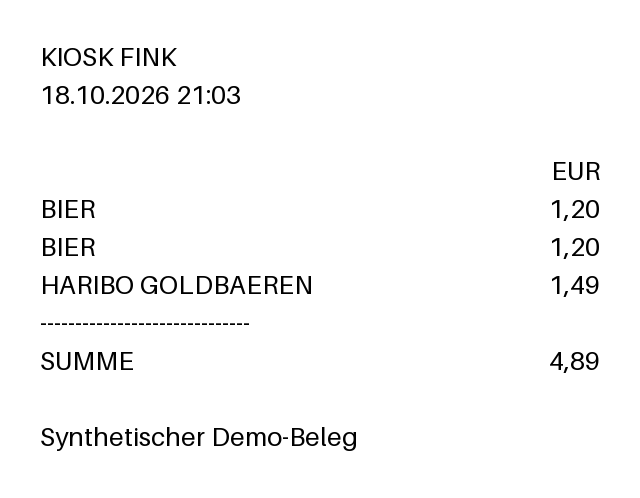
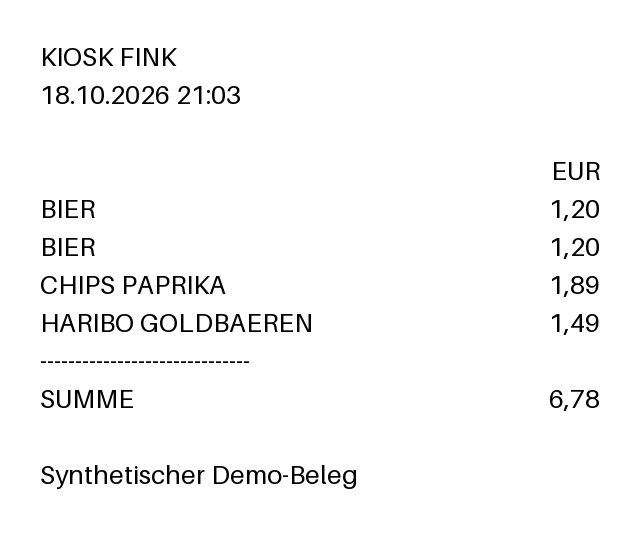
F12: review fixes: CI trigger and token wording, Linux Ollama binding without 0.0.0.0, docker run add-host, compose -d/.env/BUDGIE_PORT/volume name, dataset wording, demo-03 reuses a category, slides link, stale 0004/0011/uncertainty lines (with its wiki updates)

diff --git a/scripts/make_demo_receipts.py b/scripts/make_demo_receipts.py
@@ -64,7 +64,7 @@ RECEIPTS: tuple[DemoReceipt, ...] = (
             ("KAESEKUCHEN", Decimal("3.90")),
         ),
         printed_total=Decimal("9.50"),
-        purpose="eating out; kaesekuchen is uncategorised, and the choice is reused next time",
+        purpose="eating out, with one uncategorised item (kaesekuchen)",
     ),
     DemoReceipt(
         file="demo-03-kiosk-total-mismatch.png",
@@ -73,10 +73,12 @@ RECEIPTS: tuple[DemoReceipt, ...] = (
         items=(
             ("BIER", Decimal("1.20")),
             ("BIER", Decimal("1.20")),
+            ("CHIPS PAPRIKA", Decimal("1.89")),
             ("HARIBO GOLDBAEREN", Decimal("1.49")),
         ),
-        printed_total=Decimal("4.89"),
-        purpose="the printed total is 1.00 more than the items, so the review shows a sum flag",
+        printed_total=Decimal("6.78"),
+        purpose="chips paprika again, so the category chosen on demo-01 is reused; the printed"
+        " total is 1.00 more than the items, so the review shows a sum flag",
     ),
 )
 

diff --git a/README.md b/README.md
@@ -28,10 +28,10 @@ The responsibility split is:
 
 **Reproducible demo data:**
 - `data/demo/receipts/` holds three synthetic receipt photos for scenario 1, with fictional shops and no personal data. `make demo-receipts` re-renders them.
-  - `demo-01-supermarket.png`: seed categories, a Pfand line and one unknown item
-  - `demo-02-cafe.png`: an unknown item; pick its category once and it is reused
-  - `demo-03-kiosk-total-mismatch.png`: the printed total doesn't match the items, so a flag appears
-- `make seed-demo` (or `python -m app.demo_seed` in the container) loads several months of confirmed expenses, budgets and a goal into an **empty** database. Scenarios 2 and 3 run on this data ([0022](docs/wiki/decisions/0022-demo-data-by-explicit-command.md)).
+  - `demo-01-supermarket.png`: seed categories, a Pfand line and one unknown item (CHIPS PAPRIKA)
+  - `demo-02-cafe.png`: eating out, with one unknown item
+  - `demo-03-kiosk-total-mismatch.png`: CHIPS PAPRIKA again, so the category picked on demo-01 is reused; the printed total doesn't match the items, so a sum flag appears
+- `make seed-demo` (or `python -m app.demo_seed` in the container) loads several months of confirmed expenses, budgets and a goal into an **empty** database. Scenarios 2 and 3 run on this data ([0022](docs/wiki/decisions/0022-demo-data-by-explicit-command.md)). Seed first, then upload the demo receipts.
 
 ## Architecture and data flow
 ```
@@ -120,7 +120,7 @@ Statuses are shown as words with an icon, never only as a colour, and never as a
 - **Licence:** Ollama's page shows Apache-2.0 for `qwen2.5vl:3b`, but it shows that same licence file for the 7B and 72B too. Upstream, the 3B is under the **Qwen Research License**: non-commercial use only, "research or evaluation purposes". Converting the weights doesn't relicense them, so Budgie treats the 3B as research-only. That fits this study project. For commercial use, switch to `gemma3:4b` (Gemma Terms of Use). Sources, checked 2026-10-20, not legal advice: [Ollama library](https://ollama.com/library/qwen2.5vl:3b), [Qwen2.5-VL-3B LICENSE](https://huggingface.co/Qwen/Qwen2.5-VL-3B-Instruct/blob/main/LICENSE), [7B card (Apache-2.0)](https://huggingface.co/Qwen/Qwen2.5-VL-7B-Instruct), [72B card (Qwen licence)](https://huggingface.co/Qwen/Qwen2.5-VL-72B-Instruct).
 
 **Hardware:**
-- No GPU is required. Plan for at least **8 GB RAM** (16 GB is comfortable): the model takes about 3.2 GB on disk and more in memory with the 8 K context. Check the real figure with `ollama ps`.
+- No GPU is required. Plan for at least **8 GB RAM** (16 GB is comfortable): the model takes about 3.2 GB on disk and about [__] GB in memory with the 8 K context (`ollama ps` on the student's host, [date]).
 - The measured latency (p50 about 51 s, p95 about 131 s per receipt) comes from an Apple Silicon Mac, where Ollama uses the GPU through Metal. A CPU-only laptop is slower, and so is Ollama inside Docker on a Mac, which has no GPU access.
 
 **Install, start and verify the inference server (host install, recommended on a Mac):**
@@ -129,7 +129,9 @@ Statuses are shown as words with an icon, never only as a colour, and never as a
 ollama --version                                   # expect 0.35.1 or later
 
 # 2. Start it with the context qwen needs
-#    (on Linux add OLLAMA_HOST=0.0.0.0 so the Docker container can reach it)
+#    Linux + Docker: Ollama listens on 127.0.0.1, which a container can't reach. Bind it to the
+#    docker bridge only, e.g. OLLAMA_HOST=172.17.0.1 (never 0.0.0.0: Ollama has no login),
+#    and then use that address instead of localhost below; or use the compose ollama profile.
 OLLAMA_CONTEXT_LENGTH=8192 ollama serve
 #    macOS app instead: launchctl setenv OLLAMA_CONTEXT_LENGTH 8192, then restart the app
 
@@ -174,17 +176,21 @@ All settings are environment variables (pydantic-settings). Nothing is hard-code
 
 **With Docker Compose (recommended):**
 ```bash
-docker compose up --build                        # app on http://localhost:8000 (bound to 127.0.0.1), uses the host's Ollama
-docker compose exec app python -m app.demo_seed  # optional: demo history for scenarios 2–3 (empty DB only)
+docker compose up -d --build                     # app on http://localhost:8000 (bound to 127.0.0.1), uses the host's Ollama
+docker compose exec app python -m app.demo_seed  # optional: demo history for scenarios 2–3 (empty DB only, so before any upload)
+docker compose logs -f app                       # follow the logs; `docker compose down` stops it (data stays on the volume)
 ```
-Ollama in a container instead of on the host (no GPU on a Mac, so slower):
+Ollama in a container instead of on the host (no GPU on a Mac, so slower). Put `LLM_BASE_URL=http://ollama:11434/v1` in a local `.env` (git-ignored, read by compose), or every later `up` falls back to the host's Ollama:
 ```bash
-LLM_BASE_URL=http://ollama:11434/v1 docker compose --profile ollama up --build
+echo "LLM_BASE_URL=http://ollama:11434/v1" >> .env   # remove it again before `make run`, which reads .env too
+docker compose --profile ollama up -d --build
 docker compose exec ollama ollama pull qwen2.5vl:3b
 ```
+Compose names the data volume `budgie_budgie-data` (project `budgie`). The plain `docker run` below uses `budgie-data`, a different volume, so data doesn't carry over between the two. `BUDGIE_PORT` changes the host port (default 8000).
+
 The app also starts without any model server. `/api/health` then reports `llm: down`, uploads fail with `llm_unavailable` and offer Retry or manual entry, and everything else (manual expenses, budgets, dashboard, export) keeps working.
 
-**With Docker only:** `docker build -t budgie . && docker run -p 127.0.0.1:8000:8000 -v budgie-data:/data -e LLM_BASE_URL=http://host.docker.internal:11434/v1 budgie`
+**With Docker only:** `docker build -t budgie . && docker run -p 127.0.0.1:8000:8000 --add-host=host.docker.internal:host-gateway -v budgie-data:/data -e LLM_BASE_URL=http://host.docker.internal:11434/v1 budgie`
 
 **Local development:**
 ```bash
@@ -195,7 +201,7 @@ make check            # ruff, pytest, import-linter, OpenAPI drift (gitleaks if 
 make docker-check     # on the host: build, run, check health, non-root user and /data mode 700
 ```
 - **Tests:** about 3,700 pytest tests. They cover table-driven domain rules (validation, review status, normalisation, categorisation, duplicates, budgets, each leak rule), recorded model responses (valid, malformed and repaired, cut off, missing fields, not a receipt, injected text), and API tests with a fake model client for every failure case. A live-model test is marked `integration` and excluded by default.
-- **CI** runs `lint`, `test`, `openapi`, `imports`, `docker` and `gitleaks` on every push, and `main` is protected ([0010](docs/wiki/decisions/0010-ci-gates-before-merge.md)).
+- **CI** runs `lint`, `test`, `openapi`, `imports`, `docker` and `gitleaks` on every pull request and every push to `main`, and `main` is protected ([0010](docs/wiki/decisions/0010-ci-gates-before-merge.md)).
 
 **Failure handling** ([details](docs/wiki/backend/ai-extraction.md#failure-handling-criterion-10)):
 
@@ -208,7 +214,7 @@ make docker-check     # on the host: build, run, check health, non-root user and
 | Database can't be read or written | `500 storage_error`, logged; `db: error` in health |
 
 ## Evaluation
-- **Dataset:** 30 hand-labelled cases: 23 German receipts, 5 receipts with injected instructions (unsafe), 2 photos that aren't receipts (out of scope), and 3 receipts without a printed merchant or date (ambiguous).
+- **Dataset:** 30 hand-labelled cases: 23 German receipts (3 of them without a printed merchant or date, so ambiguous), 5 receipts with injected instructions (unsafe), and 2 photos that aren't receipts (out of scope).
 - **Configurations:** 4, compared at temperature 0 and scored after the app's own post-processing: `gemma3:4b` with prompts v1, v2, v3, and `qwen2.5vl:3b` with v3.
 - **Report:** method, metrics, comparisons, error categories and the failure discussion are in **[docs/evaluation.md](docs/evaluation.md)**. Runner: `eval/`, `make eval`.
 
@@ -217,10 +223,10 @@ make docker-check     # on the host: build, run, check health, non-root user and
 | `gemma3:4b` v3 | 79 % | 43 % | 71 % | 0.47 | 97 % | 2/2 | 0/5 | 40 s |
 | `qwen2.5vl:3b` v3 | 89 % | 82 % | 93 % | 0.89 | 100 % | 2/2 | 2/5 | 51 s |
 
-The eval photos and labels are real receipts and stay **out of the repo** (`data/eval/` is git-ignored) for privacy. The repo has the runner, the scoring rules ([0028](docs/wiki/decisions/0028-evaluation-truth-and-scoring.md)), the aggregated results (`eval/results/`) and the report.
+The eval photos (mostly real receipts; the 5 injection cases are AI-generated) and labels stay **out of the repo** (`data/eval/` is git-ignored) for privacy. The repo has the runner, the scoring rules ([0028](docs/wiki/decisions/0028-evaluation-truth-and-scoring.md)), the aggregated results (`eval/results/`) and the report.
 
 ## Uncertainty handling
-Budgie shows **no confidence score and no probability** (criterion 13). The model gives no meaningful per-field score, and at temperature 0 repeated runs always agree, so their agreement measures nothing. Instead, it does this:
+Budgie shows **no confidence score and no probability** (criterion 13). Neither model gives a per-field score through Ollama, and at temperature 0 repeated runs always agree, so their agreement measures nothing. Instead, it does this:
 - **Rules check the output:**
   - the item sum against the total (tolerance 0,02)
   - the date: not in the future, not older than 2 years
@@ -251,10 +257,10 @@ Budgie was built with **Claude Code** (Anthropic; Claude Opus models) as the age
 | File access | only the repo is mounted (`/workspace`); the container runs as the non-root user `vscode` |
 | No credentials in the container | SSH-agent forwarding is turned off (`remoteEnv.SSH_AUTH_SOCK=""`), and `postAttachCommand` removes the injected git credential helper. On the host, set the VS Code user settings `"dev.containers.gitCredentialHelperConfigLocation": "none"` and `"dev.containers.copyGitConfig": false` |
 | Agent permissions ([.claude/settings.json](.claude/settings.json)) | **deny:** reading `.env*`, `~/.ssh/**`, `~/.gitconfig`, `~/.git-credentials`; `sudo`; `git push --force`. **ask (confirmation):** `git commit`, `git push`, `git reset`, `git rebase`, `rm`, `docker`, `curl`, `wget`, `pip install`. **allow:** tests, lint, `make check`, read-only git |
-| Push model | the agent commits locally only; the student reviews and pushes from a host terminal. No token exists in the container |
+| Push model | the agent commits locally only; the student reviews and pushes from a host terminal. No git or GitHub credential or token exists in the container (only Claude Code's own login) |
 | Branch protection | `main` on GitHub accepts changes only through PRs with all CI checks green; force-push and deletion are blocked |
 | Secrets in history | gitleaks runs in CI over the whole history; no credentials are in prompts, code or config |
-| Network | **not restricted by a firewall.** The optional allowlist from 0011 wasn't built. `curl`/`wget` need confirmation, and the agent briefs allow no network beyond `pip install` |
+| Network | **not restricted by a firewall.** The optional allowlist from 0011 wasn't built. `curl`/`wget` need confirmation, and the `backend-dev` brief allows no network beyond `pip install` |
 
 **How the agent is used** ([workflow](docs/wiki/plan/workflow.md)):
 - Each feature has one issue, one branch and one PR.
@@ -286,3 +292,5 @@ Budgie was built with **Claude Code** (Anthropic; Claude Opus models) as the age
 | `data/demo/receipts/` | synthetic demo receipts |
 | `docs/` | [evaluation](docs/evaluation.md), [responsible design](docs/responsible-design.md), [architecture](docs/architecture.md), [OpenAPI](docs/openapi.json), [AI dev log](docs/ai-dev-log.md), [wiki](docs/wiki/README.md) |
 | `Dockerfile`, `docker-compose.yml` | container build and startup |
+
+**Presentation slides:** [Budgie deck](https://claude.ai/artifact/JfDmFVz9CDskhLPRX2NoEs). It covers the brief's presentation list in 14 slides. The deck is a claude.ai artifact, exported to `docs/slides.pdf` for the submission.

diff --git a/docs/wiki/decisions/0004-vision-model-direct-via-ollama.md b/docs/wiki/decisions/0004-vision-model-direct-via-ollama.md
@@ -1,6 +1,6 @@
 # 0004 — Vision model direct via Ollama
 
-**Status:** Accepted (2026-09-28); default model revised by [0030](0030-default-model-qwen2-5vl-3b.md) (2026-10-20). Approach confirmed by the [AI spike](../backend/ai-spike.md) on 2026-10-03. `gemma3:4b` stays the default **provisionally**: it reads short receipts well, but invents dates and totals on long ones, and it called a photo that isn't a receipt a receipt in every run (in strict mode with an invented shop, date and total). The comparison with `qwen2.5vl:3b` moves to the F11 evaluation and should include non-receipt photos.
+**Status:** Accepted (2026-09-28); default model revised by [0030](0030-default-model-qwen2-5vl-3b.md) (2026-10-20). Approach confirmed by the [AI spike](../backend/ai-spike.md) on 2026-10-03. `gemma3:4b` was the default **provisionally**: it reads short receipts well, but invents dates and totals on long ones, and it called a photo that isn't a receipt a receipt in every run (in strict mode with an invented shop, date and total). The comparison with `qwen2.5vl:3b` moves to the F11 evaluation and should include non-receipt photos.
 
 ## Context
 Receipts arrive as photos. The brief requires a locally run model behind an OpenAI-compatible API, with the model and server replaceable through configuration. The target hardware is a laptop without a GPU (8–16 GB RAM).
@@ -20,7 +20,7 @@ Receipts arrive as photos. The brief requires a locally run model behind an Open
 - Swapping the model or server is a config change only, and the model comparison in the evaluation shows that it works.
 
 ## F11 result (2026-10-12)
-The deferred comparison ran in F11 ([0028](0028-evaluation-truth-and-scoring.md), `docs/evaluation.md`): on 18 real receipts with prompt v3, `qwen2.5vl:3b` was clearly better than `gemma3:4b` (total 94 % vs 67 %, item F1 0.90 vs 0.43) at a similar latency. It needs an 8,192-token context on the Ollama server. `gemma3:4b` stays the default until a separate decision ([roadmap](../plan/roadmap.md#future-work)).
+The deferred comparison ran in F11 ([0028](0028-evaluation-truth-and-scoring.md), `docs/evaluation.md`): on 18 real receipts with prompt v3, `qwen2.5vl:3b` was clearly better than `gemma3:4b` (total 94 % vs 67 %, item F1 0.90 vs 0.43) at a similar latency. It needs an 8,192-token context on the Ollama server. `gemma3:4b` stayed the default until a separate decision, which is [0030](0030-default-model-qwen2-5vl-3b.md).
 
 ## F12 revision (2026-10-20)
 The default model is now `qwen2.5vl:3b` ([0030](0030-default-model-qwen2-5vl-3b.md)). The full 30-case run favoured it on every field. It needs `OLLAMA_CONTEXT_LENGTH=8192` and comes under the Qwen Research License (non-commercial). `gemma3:4b` stays the fallback, set through `LLM_MODEL`. The rest of this decision is unchanged.

diff --git a/docs/wiki/backend/uncertainty.md b/docs/wiki/backend/uncertainty.md
@@ -5,7 +5,7 @@ How Budgie treats uncertainty in the model's output (criterion 13 of the brief).
 ## The brief's options, one by one
 | Option in criterion 13 | Used? | How, or why not |
 |---|---|---|
-| Model-provided scores, where technically meaningful | no | `gemma3:4b` gives no score per field. The [spike](ai-spike.md) showed it is confidently wrong: it called a pinboard photo a receipt in every run, and the strict schema made it invent a shop, a date and a total. A self-reported score would have been high there too. |
+| Model-provided scores, where technically meaningful | no | Neither `gemma3:4b` nor `qwen2.5vl:3b` (the default since [0030](../decisions/0030-default-model-qwen2-5vl-3b.md)) gives a score per field through Ollama's chat API. The [spike](ai-spike.md) showed it is confidently wrong: it called a pinboard photo a receipt in every run, and the strict schema made it invent a shop, a date and a total. A self-reported score would have been high there too. |
 | Agreement across repeated runs | no | At temperature 0 every spike run was identical, so agreement measures nothing. A signal that can disagree (two prompts or two models) is a comparison in F11, not a pipeline step ([0008](../decisions/0008-rule-based-review-status-not-probability.md)). |
 | Validation against rules or source data | yes | The rules in [domain-logic](domain-logic.md#validationpy-f4): the item sum against the total (and an API-entered subtotal; the model no longer extracts one, [0019](../decisions/0019-lean-extraction-line-totals-date-as-printed.md)), the date, required fields, the plausibility rule. Checking against the source, the photo, is the user's job: the review page shows the image next to the form. |
 | Thresholds for accepting, flagging or rejecting | yes | Tolerance 0.02 per sum; a date no later than today and no more than 2 years old; the plausibility rule (no merchant, no total, at most one item → `not_a_receipt`). The result is `accepted`, `needs_review` or `rejected`. |

diff --git a/docs/responsible-design.md b/docs/responsible-design.md
@@ -44,6 +44,7 @@ This page covers how Budgie handles limitations, failure modes, privacy, securit
   - The evaluation still found that `qwen2.5vl:3b` followed 2 of 5 injected receipts (`gemma3:4b` v3: 0 of 5). Both injected receipts ended `needs_review`, so the user saw the flag.
   - The protection is the code (the sum and date rules, the plausibility rule, the non-item guard) plus the user's confirmation, not the model's obedience ([0030](wiki/decisions/0030-default-model-qwen2-5vl-3b.md)).
 - **No login, so localhost only.** Budgie assumes one local user, as the brief allows. Compose publishes the port on `127.0.0.1` only; anyone who can reach the port can read and change all data, so it must not be exposed without an authenticating proxy.
+- **Ollama has no login either.** On a Linux host, the README binds it to the docker bridge address, never to `0.0.0.0`, which would let anyone on the network use the model server.
 - **Input handling.**
   - Uploads are limited by type (JPEG/PNG/WebP) and size (`MAX_UPLOAD_MB`, 10 MB).
   - The redaction rules read at most 65,536 characters and are tested against ReDoS inputs.
@@ -54,7 +55,7 @@ This page covers how Budgie handles limitations, failure modes, privacy, securit
 - **Supply chain.**
   - Python dependencies are pinned to ranges, and ruff exactly.
   - The Ollama image is pinned (`0.35.1`).
-  - The model is pinned by tag only. A tag can be re-pushed; the evaluated `qwen2.5vl:3b` had manifest `fb90415cde1e`.
+  - The model is pinned by tag only, and a tag can be re-pushed. The Ollama library listed `qwen2.5vl:3b` as manifest `fb90415cde1e` on 2026-10-20; `ollama list` shows the local digest.
 - **Agent-assisted development.** The coding agent ran in a hardened dev container without credentials, and every push went through the student and protected CI ([0011](wiki/decisions/0011-sandbox-hardening.md), README "Sandboxed agent setup").
 
 ## Potential misuse

diff --git a/docs/wiki/decisions/0030-default-model-qwen2-5vl-3b.md b/docs/wiki/decisions/0030-default-model-qwen2-5vl-3b.md
@@ -18,7 +18,7 @@
 The latency was measured on the student's Apple Silicon host ([ai-spike](../backend/ai-spike.md)), not on a CPU-only laptop.
 
 ## Decision
-- The `LLM_MODEL` default becomes `qwen2.5vl:3b` (Ollama tag; Q4_K_M, about 3.2 GB download, 3.75 B parameters, image + text input).
+- The `LLM_MODEL` default becomes `qwen2.5vl:3b` (Ollama tag; Q4_K_M, about 3.2 GB download, 3.75 B parameters, image + text input). The Ollama library listed it as manifest `fb90415cde1e` on 2026-10-20; the copy the evaluation used wasn't checked by digest.
 - `gemma3:4b` stays the fallback: set `LLM_MODEL=gemma3:4b`, no code change. Prompts v1–v3 and the eval keep both models.
 - **Context length:** qwen keeps more image resolution, so the Ollama server must run with `OLLAMA_CONTEXT_LENGTH=8192`. At 4,096, every 2,000 px photo failed with HTTP 400. The compose `ollama` profile sets it, and the README documents it for a host install.
 - **Licence:** the 3B is not under Apache 2.0, even though Ollama shows Apache 2.0.
@@ -34,4 +34,4 @@ The latency was measured on the student's Apple Silicon host ([ai-spike](../back
 - About 10 s more latency per receipt (p50), which the async extraction absorbs ([0007](0007-async-extraction-with-polling.md)).
 - An Ollama server at the default 4,096 context fails on full-size photos with HTTP 400, which surfaces as a failed extraction. The README's setup step prevents this.
 - Recorded test fixtures stay on `gemma3:4b`. They test the parser and the pipeline, not the model.
-- A host test is required: one real upload with the new default through `docker compose`.
+- A host test is required: `docker compose up` with `db: ok`, then one demo receipt uploaded with the new default. **Open** until the student records it here (date, model, outcome).

diff --git a/docs/wiki/decisions/0022-demo-data-by-explicit-command.md b/docs/wiki/decisions/0022-demo-data-by-explicit-command.md
@@ -23,7 +23,9 @@ Scenarios 2 and 3 must work "on the seeded demo data" ([roadmap](../plan/roadmap
 ## F12 addition (2026-10-20)
 The seed covers scenarios 2 and 3. Scenario 1 needs a photo to upload, and the eval photos are private ([0028](0028-evaluation-truth-and-scoring.md)). So `scripts/make_demo_receipts.py` (`make demo-receipts`, tested in `tests/unit/test_make_demo_receipts.py`) renders three synthetic receipts into `data/demo/receipts/`, and they are committed:
 - a supermarket with seed categories, a Pfand line and one unknown item
-- a café with an unknown item, whose category is reused the next time
-- a kiosk whose printed total is 1,00 more than the items, which gives a sum flag
+- a café with an unknown item
+- a kiosk with CHIPS PAPRIKA again, so the category picked on the supermarket receipt is reused; its printed total is 1,00 more than the items, which gives a sum flag
+
+Seed the history first, because `make seed-demo` only loads into an empty database, then upload the receipts in order.
 
 The shops are fictional and the receipts carry no address or payment data. The text is ASCII because Pillow's bundled font has no umlauts or euro sign. The printed dates are October 2026, so after October 2028 they fall outside the 2-year date rule and get flagged.

diff --git a/docs/wiki/decisions/0011-sandbox-hardening.md b/docs/wiki/decisions/0011-sandbox-hardening.md
@@ -15,7 +15,8 @@ The brief requires the agent harness to run sandboxed: access only to the worksp
   - `.claude/settings.local.json` holds per-machine overrides and is gitignored.
 - **Claude Code permissions** in `.claude/settings.json`:
   - `deny`: reading `.env*`, `~/.ssh/**` and `~/.gitconfig`
-  - `ask`: `git push`, `git commit`, `rm`, `docker`, `curl` and `wget`
+  - `ask`: `git push`, `git commit`, `git reset`, `git rebase`, `rm`, `docker`, `curl`, `wget` and `pip install`
+  - also `deny` (added later, as in `.claude/settings.json` since F12's check): `~/.git-credentials`, `sudo` and `git push --force`
   - `allow`: tests, lint and read-only git commands
 - **Git: the push model.** The student chose this on 2026-09-28.
   - The agent commits locally. Only the student pushes, from a host terminal. No personal credentials and no access tokens exist inside the container.
